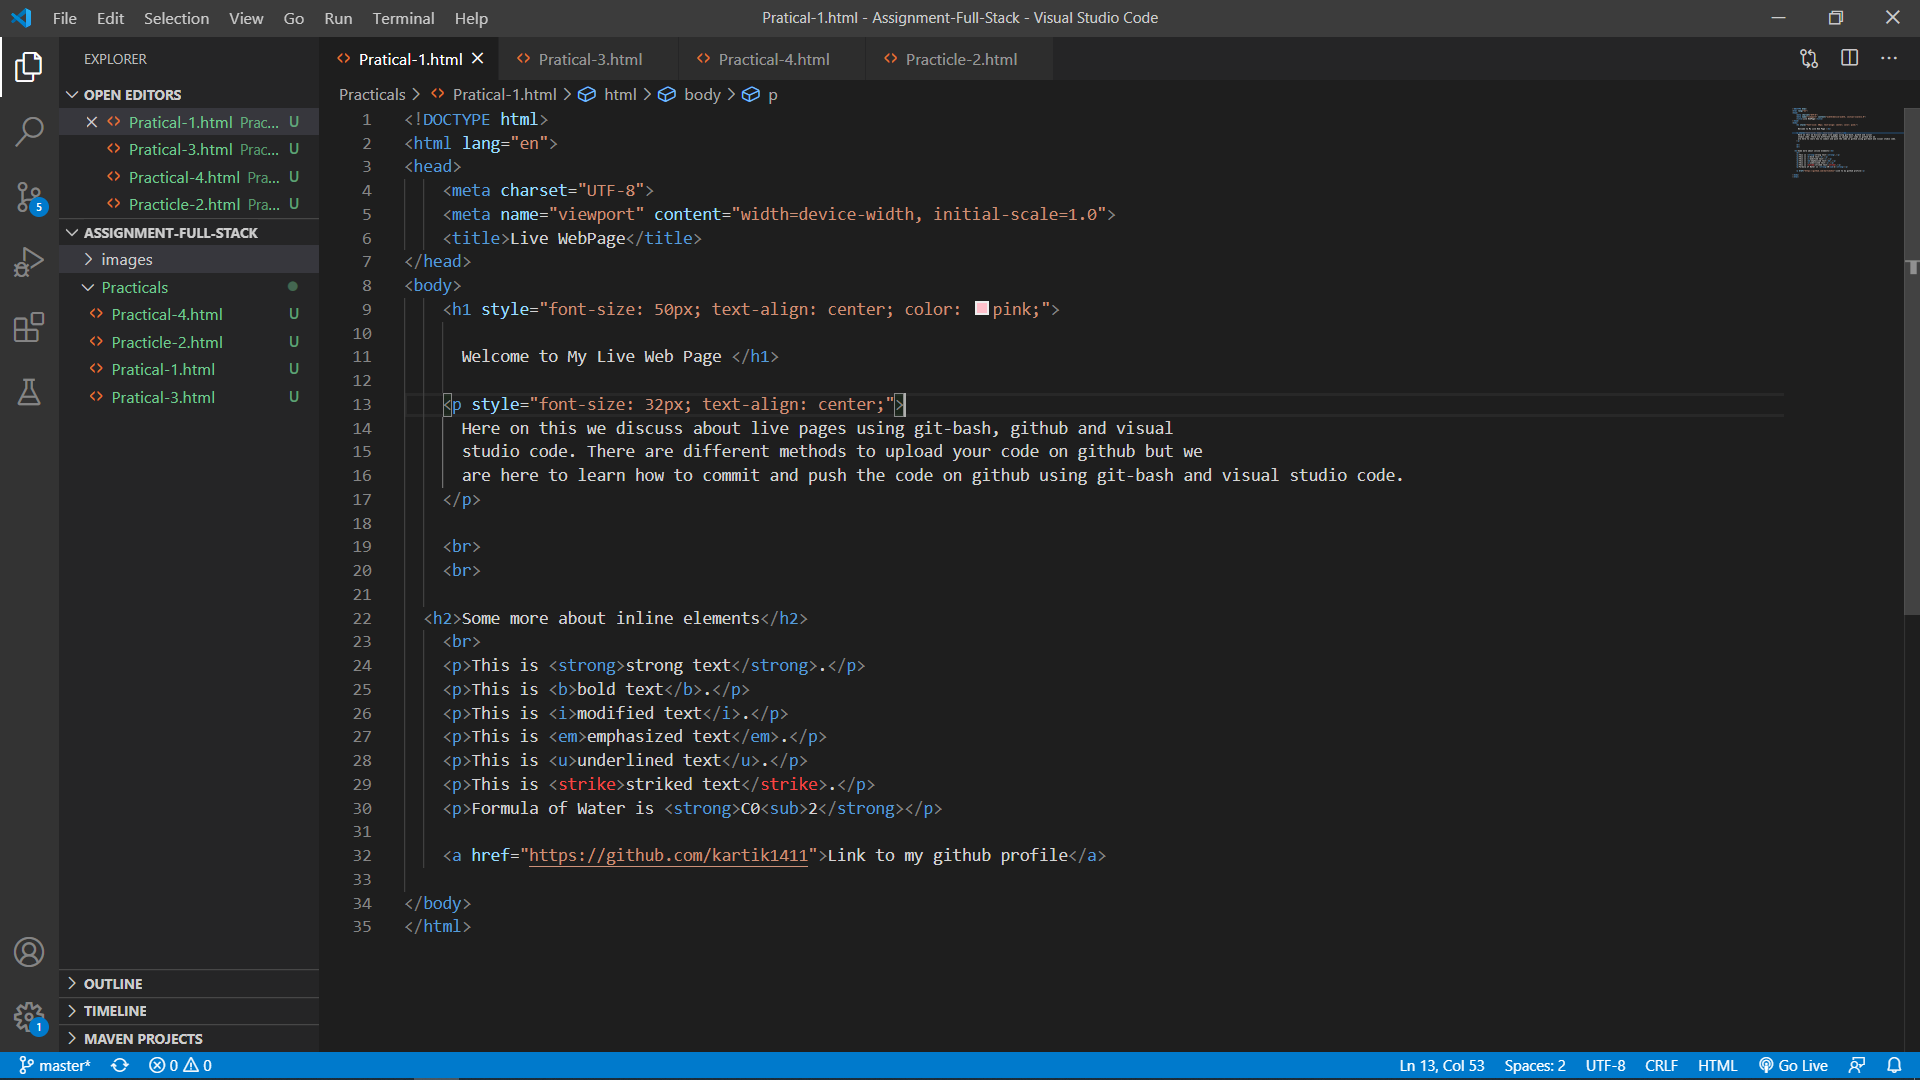
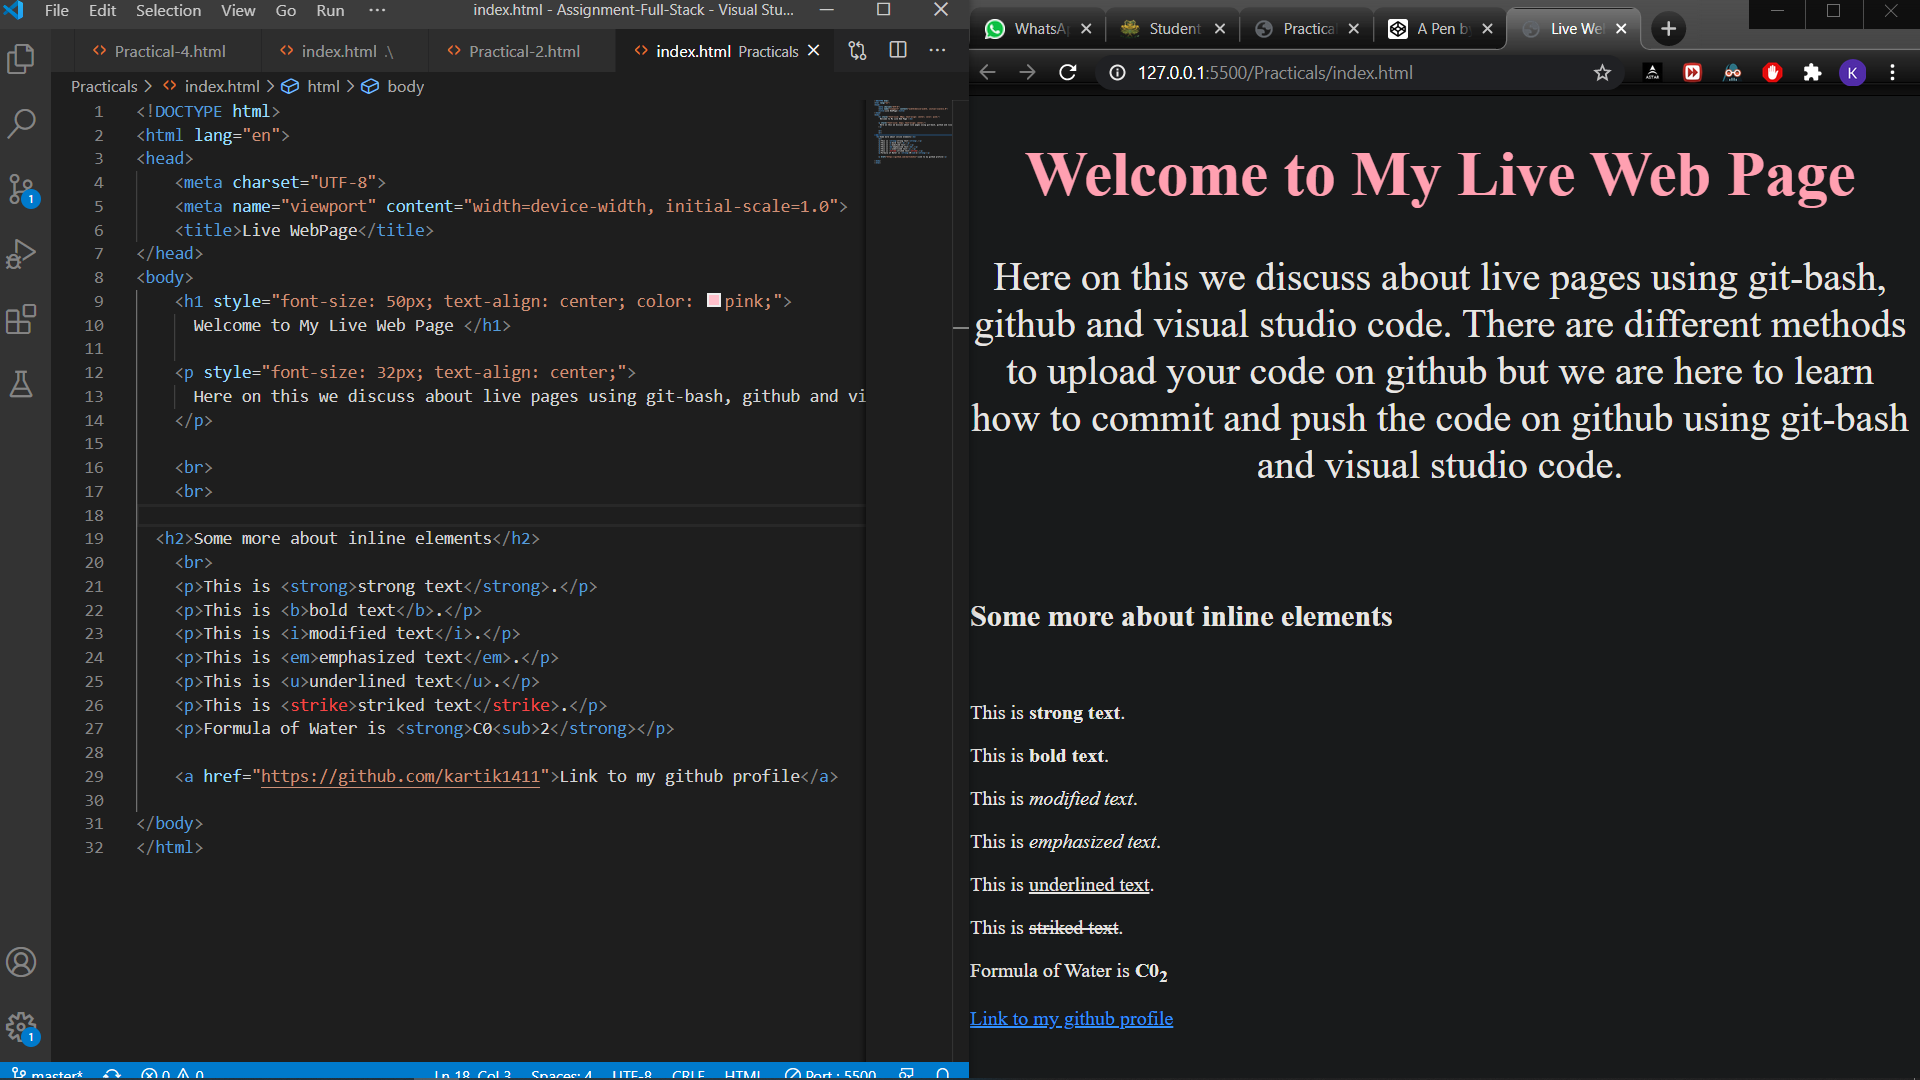
Live page is added

diff --git a/Practicals/index.html b/Practicals/index.html
@@ -1,0 +1,32 @@
+<!DOCTYPE html>
+<html lang="en">
+<head>
+    <meta charset="UTF-8">
+    <meta name="viewport" content="width=device-width, initial-scale=1.0">
+    <title>Live WebPage</title>
+</head>
+<body>
+    <h1 style="font-size: 50px; text-align: center; color: pink;">
+      Welcome to My Live Web Page </h1>
+  
+    <p style="font-size: 32px; text-align: center;">
+      Here on this we discuss about live pages using git-bash, github and visual studio code. There are different methods to upload your code on github but we are here to learn how to commit and push the code on github using git-bash and visual studio code.  
+    </p>
+    
+    <br>
+    <br>
+  
+  <h2>Some more about inline elements</h2>
+    <br>
+    <p>This is <strong>strong text</strong>.</p>
+    <p>This is <b>bold text</b>.</p>
+    <p>This is <i>modified text</i>.</p>
+    <p>This is <em>emphasized text</em>.</p>
+    <p>This is <u>underlined text</u>.</p>
+    <p>This is <strike>striked text</strike>.</p>
+    <p>Formula of Water is <strong>C0<sub>2</strong></p>
+      
+    <a href="https://github.com/kartik1411">Link to my github profile</a>
+
+</body>
+</html>
